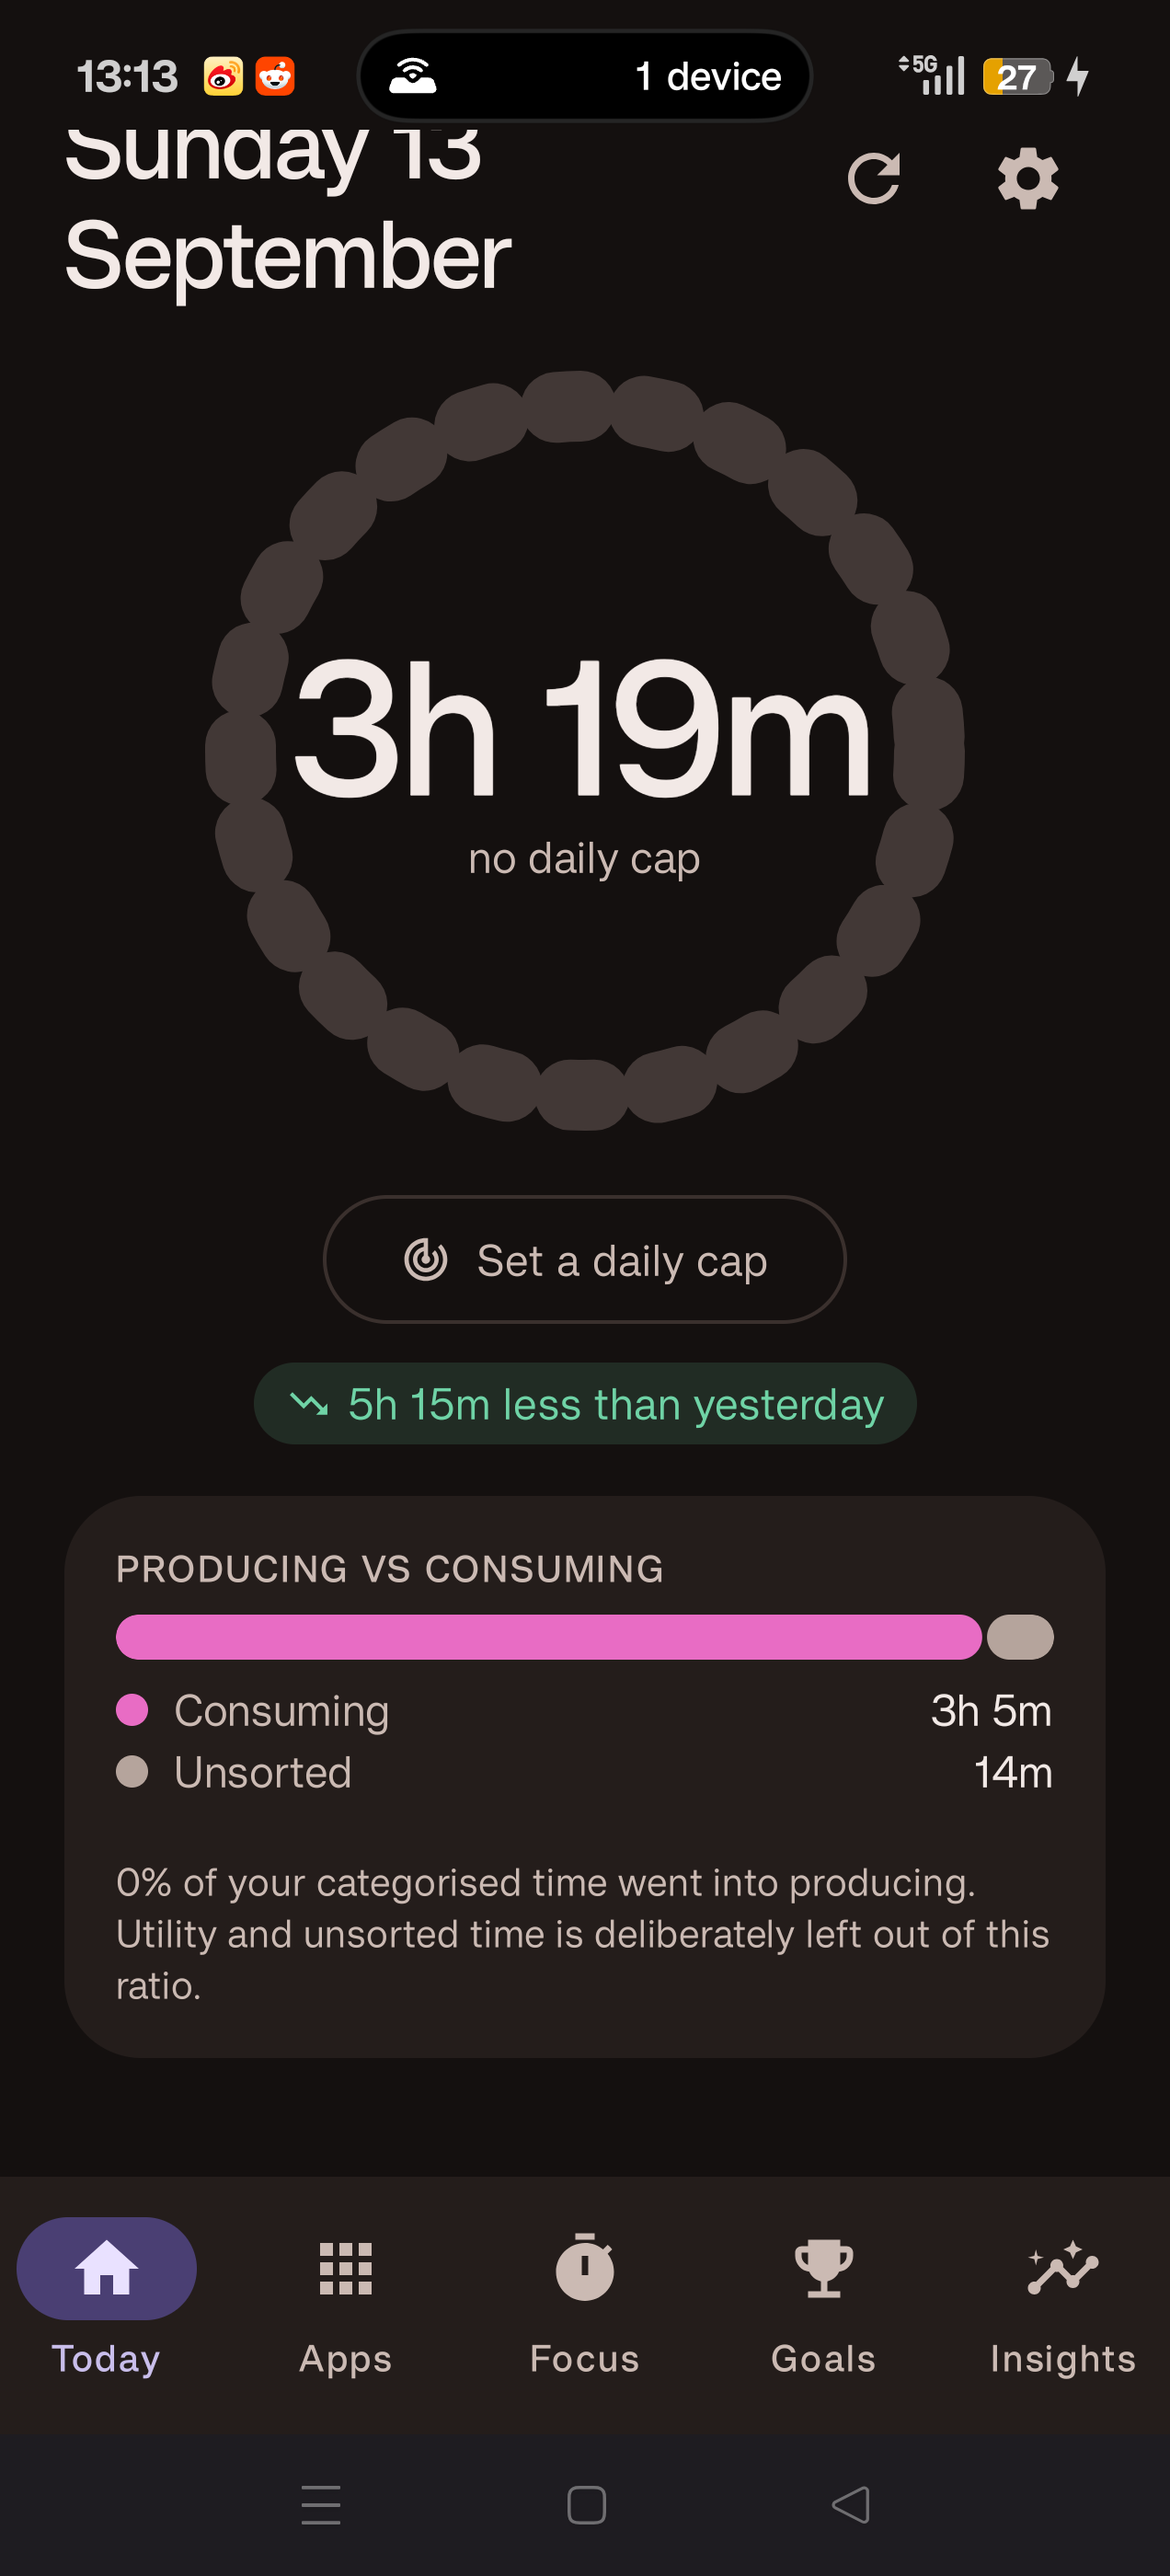
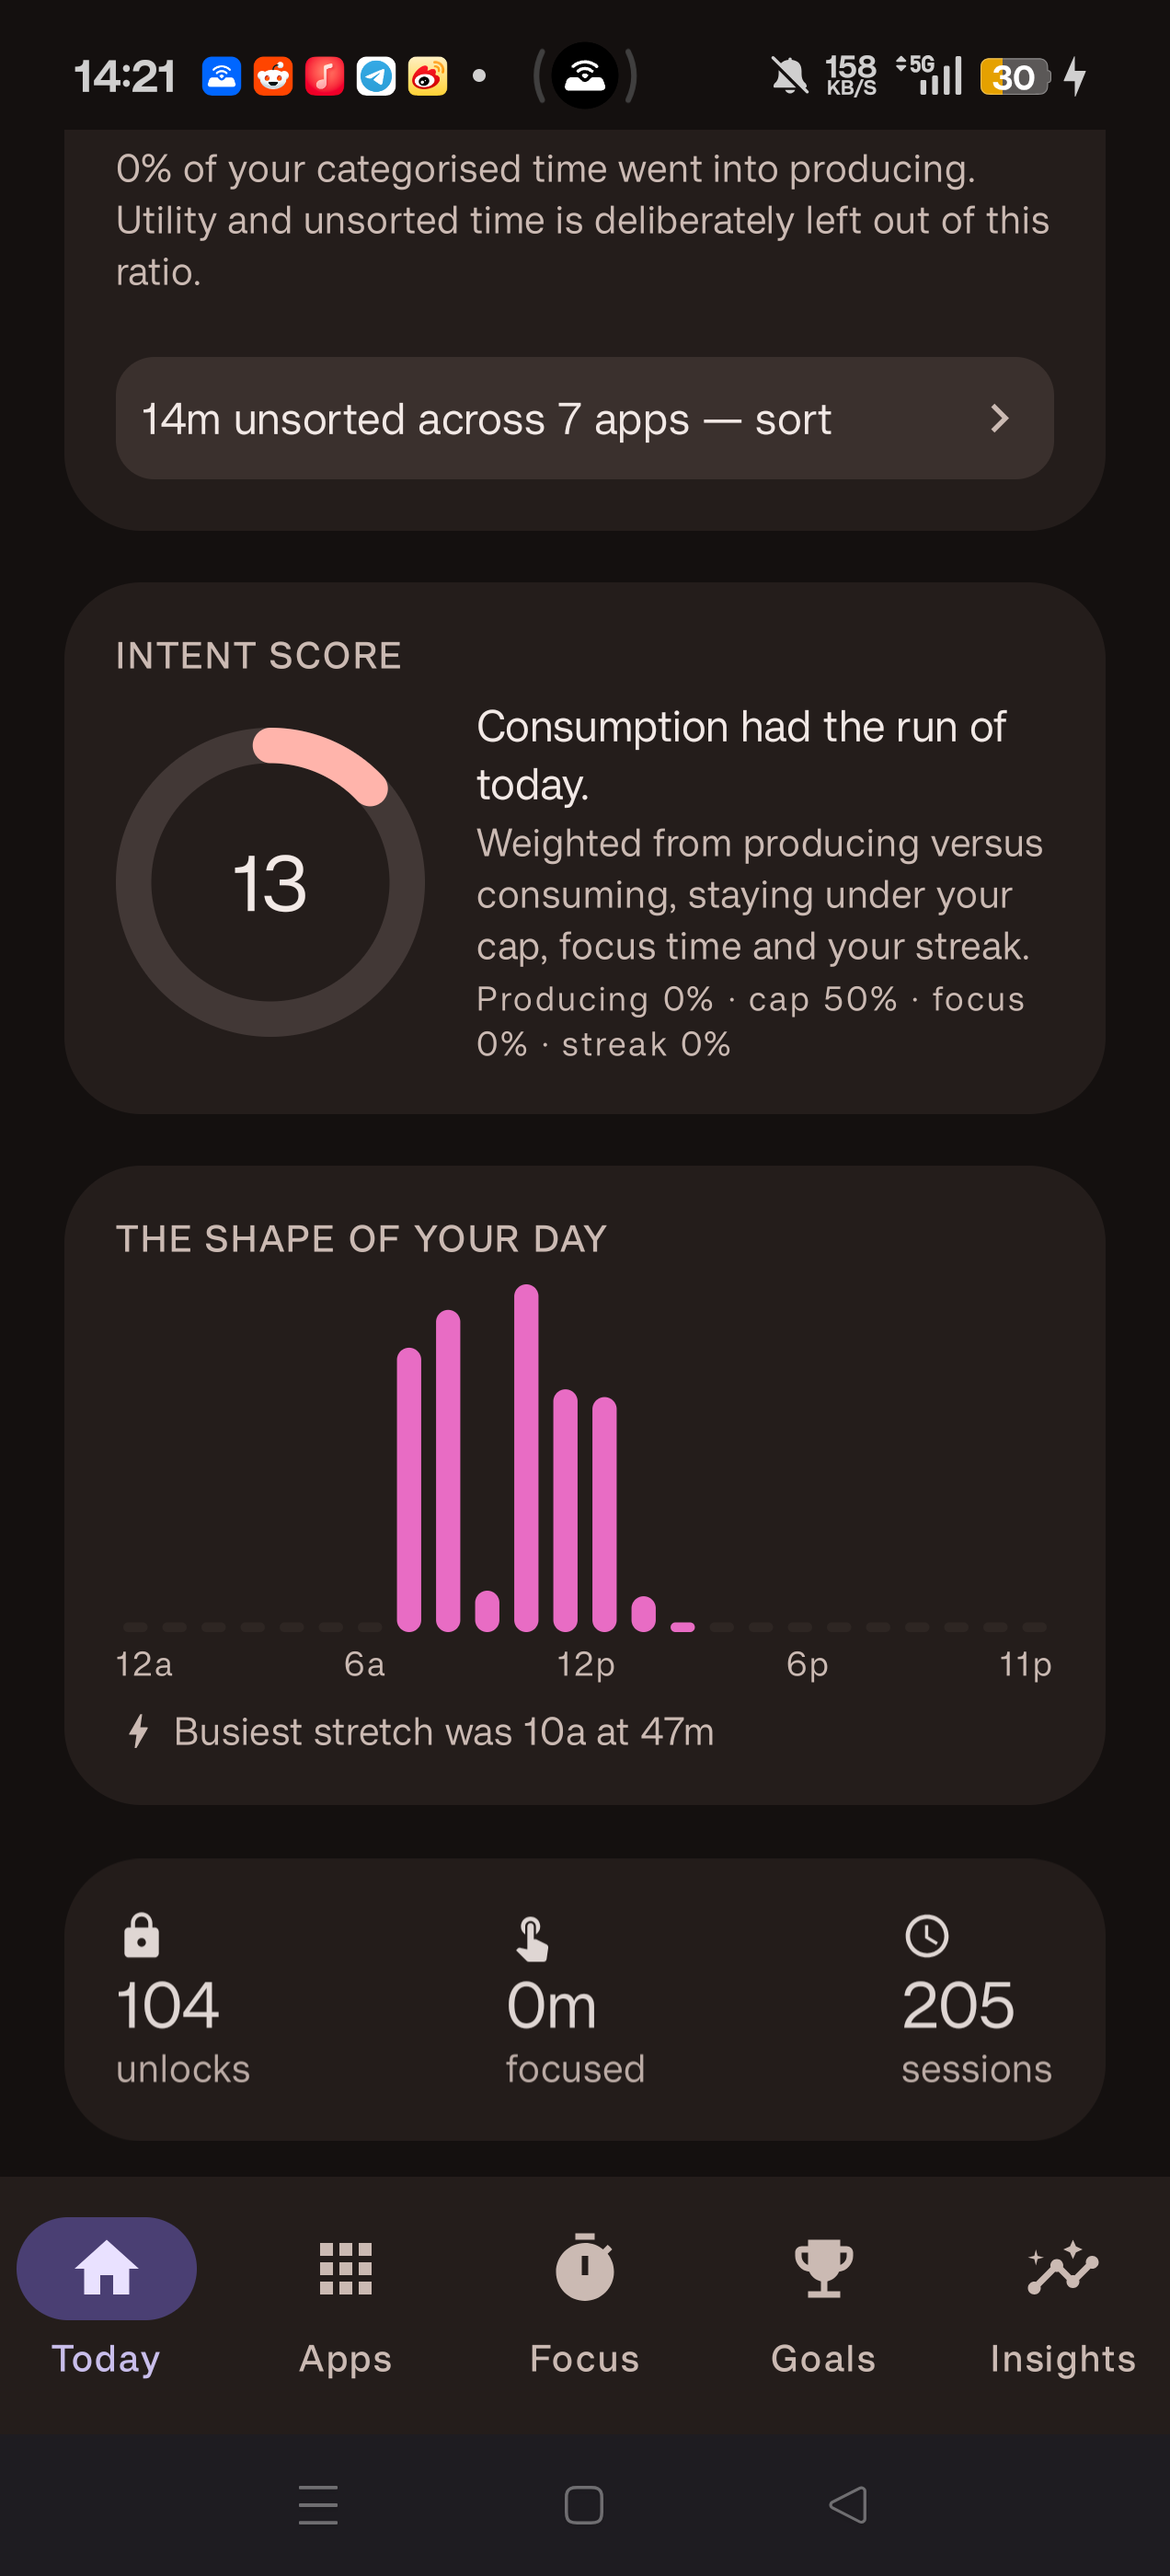
Rename to CC0015 Intent; make empty heatmap cells visible
Product name changed from Intent to CC0015 Intent: the launcher label,
the onboarding title, the export subject and chooser, and the two empty
states that name the app.

Left alone deliberately: "Intent Score", "Intent prompt" and the "Intent
prompts" notification channel. Those use intent as the app's own concept,
not as its name, and renaming them would be wrong. The package
(com.intent.screentime), the database file and the prefs file are
internal and unchanged, so the installed app keeps its data.

Heatmap: cells with no data were filled with surfaceContainerLow, one
step off the panel colour, so a user with no judged days yet saw a blank
card. With streak_day empty that is every cell, which also hid the fact
that the squares are tappable at all -- the day cards had nothing to
invite a tap. Empty cells are now outlined rather than filled, so absence
still reads as absence while the grid stays legible.

Screenshots refreshed from the device: 01_today, 04_goals, 05_insights,
plus new 13_triage, 14_daycard and 15_daycard_bottom.

diff --git a/app/src/main/java/com/intent/screentime/ui/components/StreakHeatmap.kt b/app/src/main/java/com/intent/screentime/ui/components/StreakHeatmap.kt
@@ -59,8 +59,13 @@ fun StreakHeatmap(
                 verticalArrangement = Arrangement.spacedBy(5.dp),
             ) {
                 week.forEach { cell ->
+                    val filled = cell.hasData
                     val fill = when {
-                        !cell.hasData -> scheme.surfaceContainerLow
+                        // Absence, not failure — but it still has to be visible. A fill one
+                        // step off the panel colour disappears entirely, which leaves a
+                        // twelve-week grid reading as a blank card and hides the fact that
+                        // the days are tappable at all.
+                        !filled -> Color.Transparent
                         cell.metCap && cell.metGoal -> data.production
                         cell.metCap -> scheme.primary
                         else -> scheme.surfaceContainerHighest
@@ -76,10 +81,10 @@ fun StreakHeatmap(
                         .clip(shape)
                         .background(fill)
                         .then(
-                            if (cell.isToday) {
-                                Modifier.border(1.5.dp, scheme.onSurface, shape)
-                            } else {
-                                Modifier
+                            when {
+                                cell.isToday -> Modifier.border(1.5.dp, scheme.onSurface, shape)
+                                !filled -> Modifier.border(1.dp, scheme.outlineVariant, shape)
+                                else -> Modifier
                             },
                         )
                         .then(

diff --git a/app/src/main/java/com/intent/screentime/ui/daycard/DayCardScreen.kt b/app/src/main/java/com/intent/screentime/ui/daycard/DayCardScreen.kt
@@ -156,7 +156,7 @@ fun DayCardScreen(
                     EmptyState(
                         icon = Icons.Filled.EventBusy,
                         title = "Nothing was tracked that day",
-                        body = "Intent has no usage recorded here — the day may predate your " +
+                        body = "CC0015 Intent has no usage recorded here — the day may predate your " +
                             "first install, or the phone stayed off. There is nothing to " +
                             "judge, and this card says so rather than showing you zeroes.",
                     )

diff --git a/app/src/main/java/com/intent/screentime/ui/settings/SettingsScreen.kt b/app/src/main/java/com/intent/screentime/ui/settings/SettingsScreen.kt
@@ -64,10 +64,10 @@ fun SettingsScreen(
         val send = Intent(Intent.ACTION_SEND).apply {
             type = "text/csv"
             putExtra(Intent.EXTRA_STREAM, uri)
-            putExtra(Intent.EXTRA_SUBJECT, "Intent export")
+            putExtra(Intent.EXTRA_SUBJECT, "CC0015 Intent export")
             addFlags(Intent.FLAG_GRANT_READ_URI_PERMISSION)
         }
-        context.startActivity(Intent.createChooser(send, "Export Intent data"))
+        context.startActivity(Intent.createChooser(send, "Export CC0015 Intent data"))
         onExportConsumed()
     }
 

diff --git a/app/src/main/java/com/intent/screentime/ui/insights/InsightsScreen.kt b/app/src/main/java/com/intent/screentime/ui/insights/InsightsScreen.kt
@@ -81,7 +81,7 @@ fun InsightsScreen(
                     EmptyState(
                         icon = Icons.Filled.Insights,
                         title = "Not enough history yet",
-                        body = "Intent needs a couple of days of usage before trends mean " +
+                        body = "CC0015 Intent needs a couple of days of usage before trends mean " +
                             "anything. Come back tomorrow and this fills in.",
                     )
                 }

diff --git a/app/src/main/java/com/intent/screentime/data/category/AppCategoryMapping.kt b/app/src/main/java/com/intent/screentime/data/category/AppCategoryMapping.kt
@@ -4,7 +4,7 @@ import android.content.pm.ApplicationInfo
 import com.intent.screentime.data.local.DefaultCategories
 
 /**
- * Android's own app categories mapped onto Intent's seed categories.
+ * Android's own app categories mapped onto CC0015 Intent's seed categories.
  *
  * Split out from [CategoryClassifier] so the mapping is a pure function: the fallback
  * behaviour for an app Android cannot classify is the part most worth testing, and it

diff --git a/app/src/main/java/com/intent/screentime/ui/onboarding/OnboardingScreen.kt b/app/src/main/java/com/intent/screentime/ui/onboarding/OnboardingScreen.kt
@@ -51,7 +51,7 @@ fun OnboardingScreen(
         Spacer(Modifier.height(24.dp))
 
         Text(
-            text = "Intent",
+            text = "CC0015 Intent",
             style = MaterialTheme.typography.displaySmall,
             fontWeight = FontWeight.Bold,
             color = MaterialTheme.colorScheme.primary,

diff --git a/.commandcode/taste/taste/taste.md b/.commandcode/taste/taste/taste.md
@@ -5,3 +5,7 @@
 - Wants the agent to audit completed work against the original plan/checklist and report honestly what is done, partial, or missing (including gaps the agent itself wasn't asked about) rather than assuming tasks are complete. Confidence: 0.6
 - When asked to review or improve an app's UI, expects the agent to look at the real running app visually (launch it on a device/emulator and capture screenshots of each screen) rather than judging from source code alone. Confidence: 0.7
 - Expects the agent to go beyond observing and actually decide/prioritize what should change, delivering concrete, actionable UI change recommendations. Confidence: 0.5
+- Wants apps built around "understanding, not restriction" and explicitly refuses gamification and manipulation: no points/coins/leaderboards, no red shame states, no blocking as the default posture, and no paywalling the user's own data. The stated test for any feature is whether it produces understanding or just anxiety. Confidence: 0.7
+- Prefers local-first, privacy-preserving apps and wants that surfaced plainly to the user (e.g. "everything stays on this phone") rather than buried. Confidence: 0.6
+- Treats accessibility as a requirement, not a nicety: meaning must never be carried by color alone (pair color with words), charts need content descriptions, and layouts must not truncate data under system font scaling. Confidence: 0.65
+- Prefers calm, honest, non-preachy product copy that admits uncertainty instead of over-claiming, and favors honest non-gameable metrics (e.g. a 28-day median) over volatile, easily-gamed ones. Confidence: 0.6
